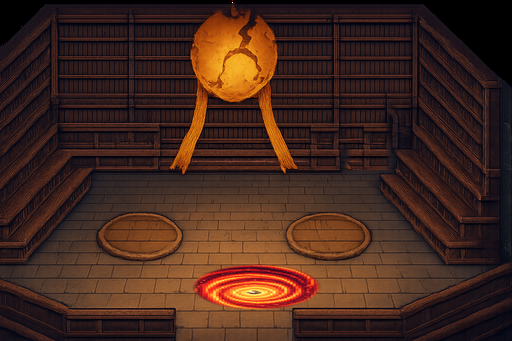
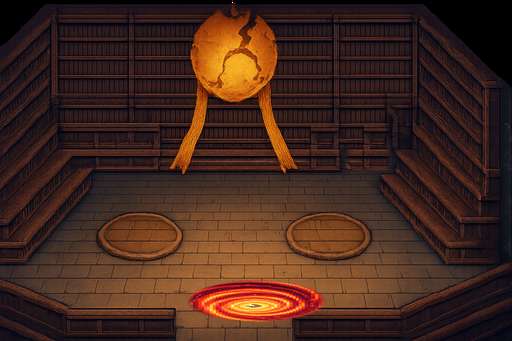
Arena portal: push down to the actual bottom of the walkable floor
Still reading as floating out on the open floor at the last position.
Moved it down to hug floorPoly's own bottom bound (y=186) — the art
bleeds a couple px past that into the bench trim, same as a real
threshold, while the trigger itself stays capped at y=185 so it's still
inside the walk mask. remap_doors.py --check confirms it: 14px reach
depth, same healthy margin as before the move.

Changed region(s): [[0.3438, 0.7625, 0.6562, 0.9677]]

diff --git a/games/the-game/story.js b/games/the-game/story.js
@@ -635,12 +635,14 @@ window.NEWSEY_STORY = (function () {
       // outside it.
       floorPoly: [[66,100],[250,100],[292,140],[283,186],[42,186],[30,140]],
       exits: [
-        // The portal, measured off bg-arena.png at 320x200 (191,264,130,46
-        // at the art's native 512x341, scaled): wide and low, right at the
-        // front edge of the floor where an exit actually reads, not a tall
-        // doorway-shaped vortex. y's centre sits at 0.84 of the frame —
-        // comfortably "near" — matching what it visually is.
-        { x: 120, y: 155, w: 80, h: 27, to: "lounge", link: "portal" }
+        // The portal, measured off bg-arena.png at 320x200 (186,280,140,42
+        // at the art's native 512x341, scaled): pushed down to the very
+        // front edge of the walkable floor (floorPoly's own bottom bound is
+        // y=186) — right where an exit actually sits, not floating out on
+        // the open floor. The trigger itself is capped at y=185 so it stays
+        // inside the walk mask; the art bleeds a couple px past it into the
+        // bench trim, same as a real threshold would.
+        { x: 117, y: 160, w: 87, h: 25, to: "lounge", link: "portal" }
       ],
       obstacles: [ { x: 0, y: 88, w: 66, h: 20 }, { x: 250, y: 88, w: 70, h: 20 } ], // the stands
       npcs: [
